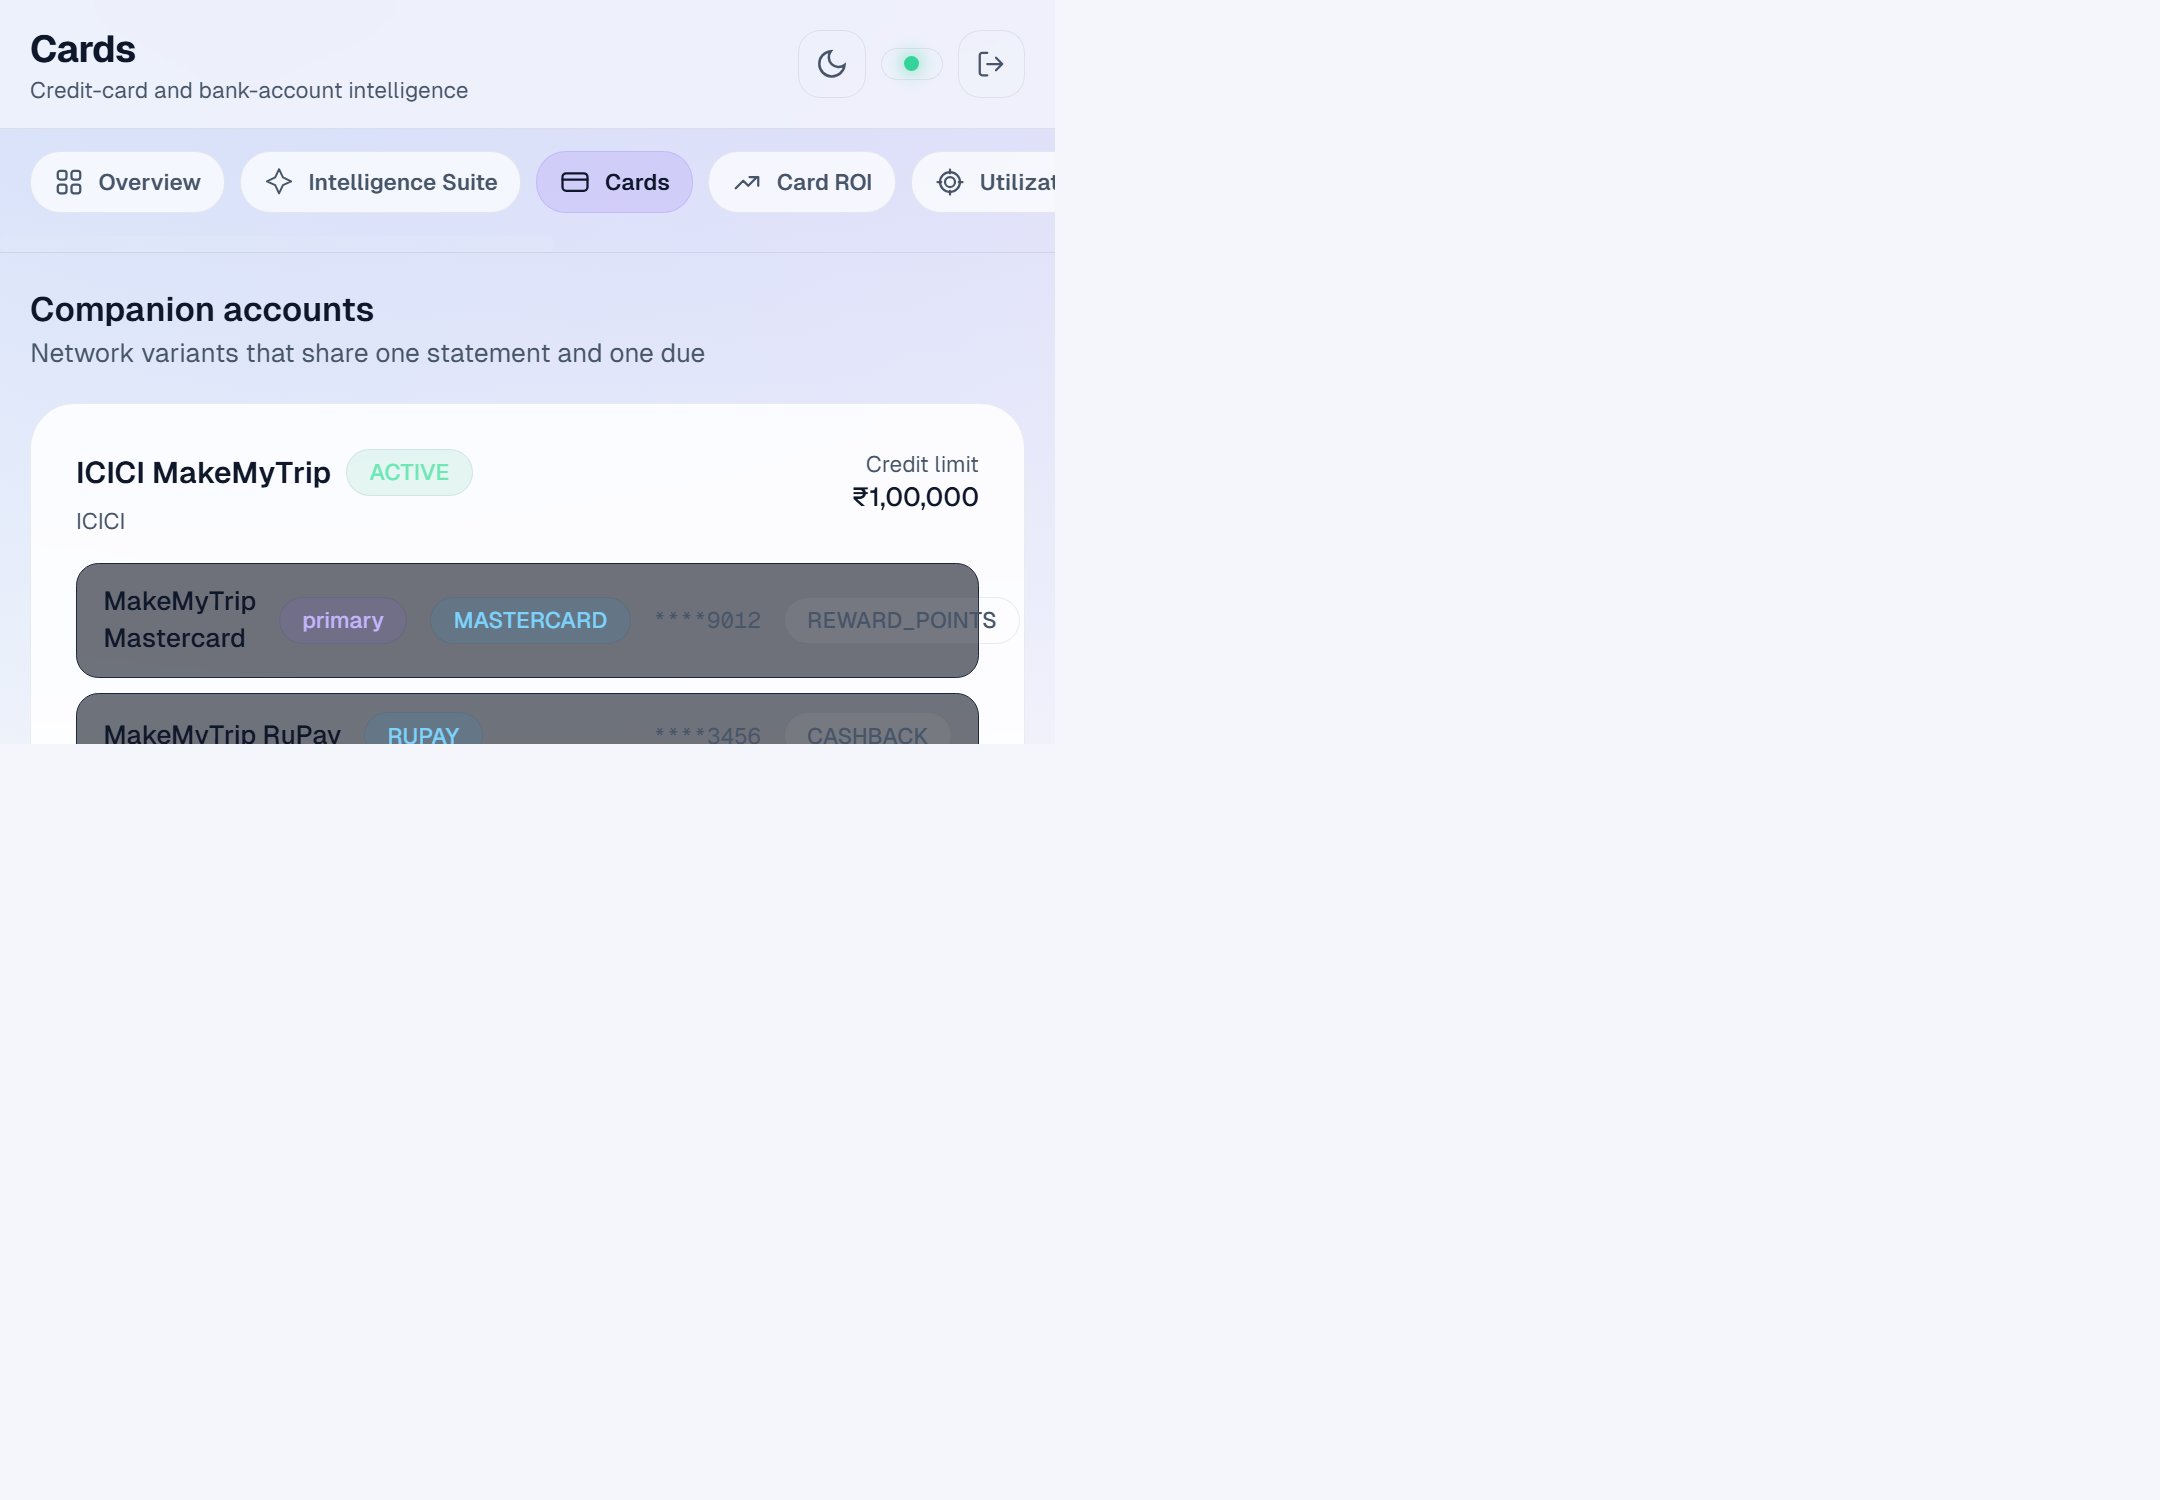
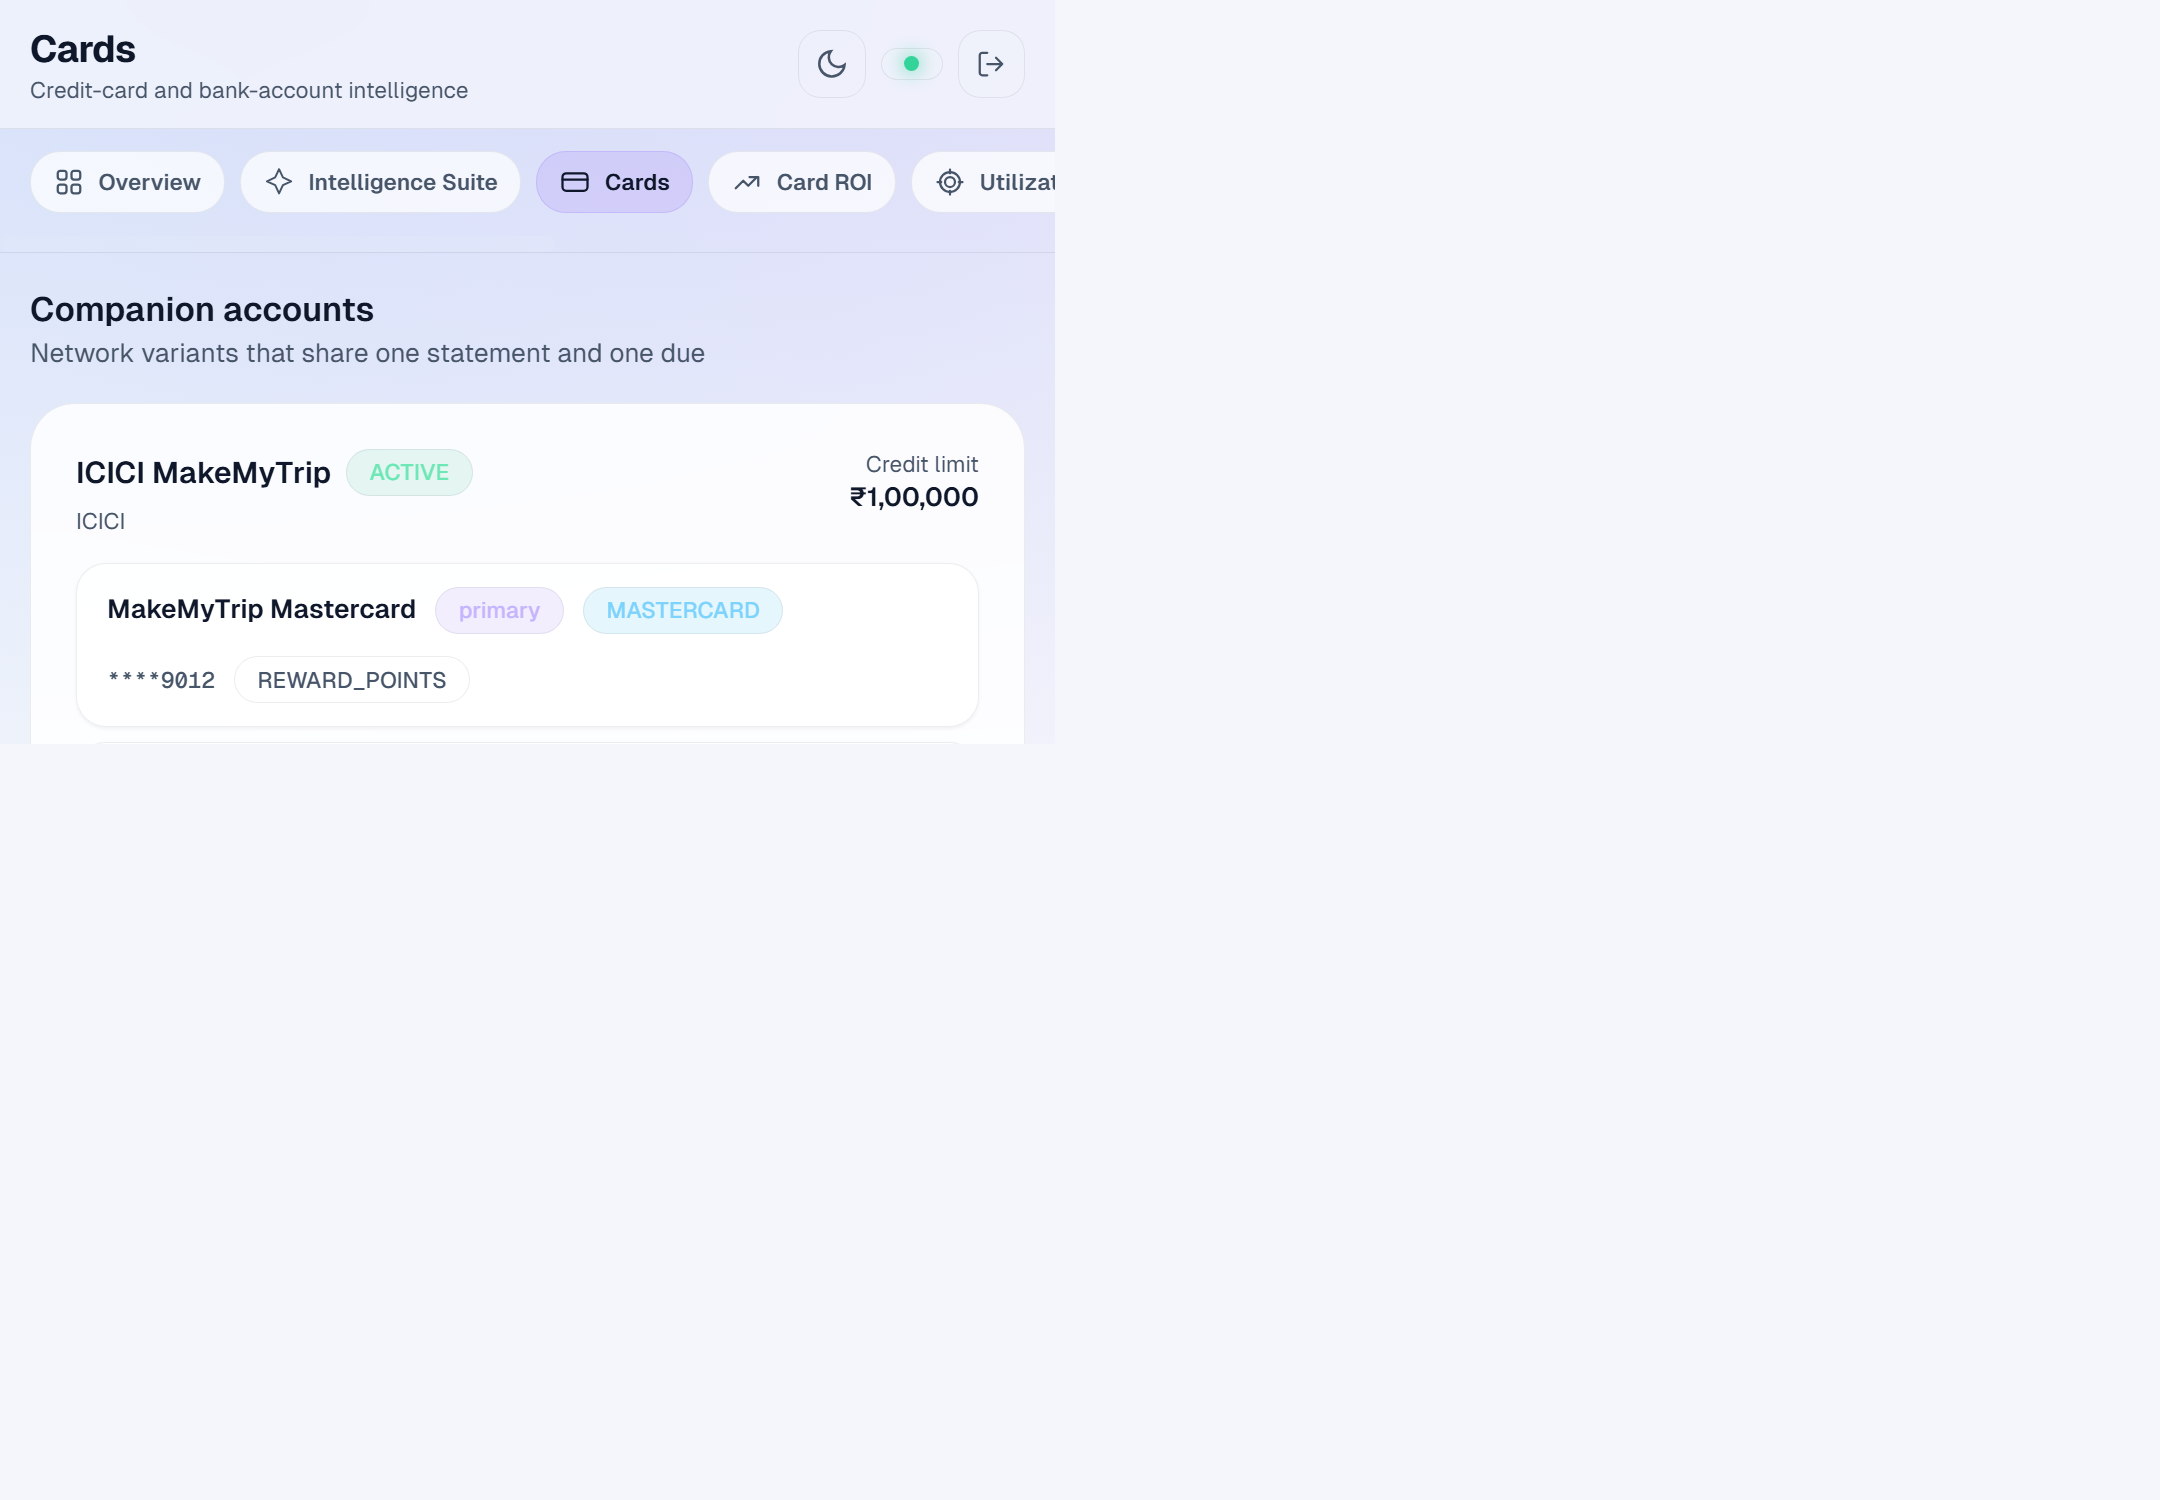
fix(frontend): improve light theme card readability and README screenshot gallery

Changed region(s): [[0.031, 0.368, 0.4653, 0.5213], [0.4032, 0.3067, 0.4343, 0.3373]]

diff --git a/frontend/src/app/dashboard/portfolio/page.tsx b/frontend/src/app/dashboard/portfolio/page.tsx
@@ -15,14 +15,14 @@ import type { Card, CardAccount, Page } from "@/lib/types";
 
 function VariantRow({ card }: { card: Card }) {
   return (
-    <div className="flex items-center justify-between gap-3 rounded-xl border border-line bg-panel2/60 px-3.5 py-2.5">
-      <div className="flex items-center gap-3">
-        <span className="text-sm font-medium text-ink">{card.card_name}</span>
+    <div className="grid gap-3 rounded-2xl border border-white/10 bg-white/[0.04] px-4 py-3 shadow-sm sm:grid-cols-[minmax(0,1fr)_auto] sm:items-center">
+      <div className="flex min-w-0 flex-wrap items-center gap-2.5">
+        <span className="min-w-0 text-sm font-semibold leading-5 text-white">{card.card_name}</span>
         {card.is_primary ? <Badge tone="brand">primary</Badge> : null}
         <NetworkChip network={card.network} />
       </div>
-      <div className="flex items-center gap-3">
-        <span className="font-mono text-xs text-muted">****{card.last4}</span>
+      <div className="flex min-w-0 flex-wrap items-center gap-2.5 sm:justify-end">
+        <span className="font-mono text-xs font-semibold text-slate-400">****{card.last4}</span>
         {card.reward_format ? <Badge tone="muted">{card.reward_format}</Badge> : null}
       </div>
     </div>
@@ -61,14 +61,14 @@ export default function PortfolioPage() {
                 <div className="flex items-start justify-between gap-3">
                   <div>
                     <div className="flex items-center gap-2">
-                      <span className="font-semibold text-ink">{acc.display_name}</span>
+                      <span className="font-semibold text-white">{acc.display_name}</span>
                       <StatusChip status={acc.status} />
                     </div>
-                    <span className="text-xs text-muted">{acc.bank}</span>
+                    <span className="text-xs text-slate-400">{acc.bank}</span>
                   </div>
                   <div className="text-right">
-                    <div className="text-xs text-muted">Credit limit</div>
-                    <div className="text-sm font-medium text-ink">
+                    <div className="text-xs text-slate-400">Credit limit</div>
+                    <div className="text-sm font-semibold text-white">
                       {formatMoney(acc.credit_limit)}
                     </div>
                   </div>
@@ -93,12 +93,12 @@ export default function PortfolioPage() {
             {standalone.map((c) => (
               <div key={c.id} className="card flex flex-col gap-2">
                 <div className="flex items-center justify-between gap-2">
-                  <span className="font-medium text-ink">{c.card_name}</span>
+                  <span className="font-medium text-white">{c.card_name}</span>
                   <StatusChip status={c.status} />
                 </div>
-                <span className="text-xs text-muted">{c.bank}</span>
+                <span className="text-xs text-slate-400">{c.bank}</span>
                 <div className="flex items-center justify-between">
-                  <span className="font-mono text-xs text-muted">****{c.last4}</span>
+                  <span className="font-mono text-xs text-slate-400">****{c.last4}</span>
                   <NetworkChip network={c.network} />
                 </div>
               </div>

diff --git a/README.md b/README.md
@@ -14,20 +14,32 @@ optimizing, and alerting.
 
 ## Product Screens
 
-The screenshots below are generated from the local demo dataset only; no personal Gmail, card, PDF, or
-credential data is included.
+Screenshots are generated from the local demo dataset only; no personal Gmail, card, PDF, or credential
+data is included.
 
-| Dashboard overview | Card portfolio |
-|---|---|
-| ![CardLens dashboard overview](docs/screenshots/01-dashboard-overview.png) | ![CardLens card portfolio](docs/screenshots/02-card-portfolio.png) |
+### Dashboard overview
 
-| Statements | Gmail onboarding |
-|---|---|
-| ![CardLens statements screen](docs/screenshots/03-statements.png) | ![CardLens Gmail onboarding](docs/screenshots/04-gmail-onboarding.png) |
+![CardLens dashboard overview](docs/screenshots/01-dashboard-overview.png)
 
-| Upload statement | Intelligence Suite |
-|---|---|
-| ![CardLens upload statement parser](docs/screenshots/05-upload-statement.png) | ![CardLens Intelligence Suite](docs/screenshots/06-intelligence-suite.png) |
+### Card portfolio
+
+![CardLens card portfolio](docs/screenshots/02-card-portfolio.png)
+
+### Statement intelligence
+
+![CardLens statements screen](docs/screenshots/03-statements.png)
+
+### Gmail onboarding
+
+![CardLens Gmail onboarding](docs/screenshots/04-gmail-onboarding.png)
+
+### Upload statement parser
+
+![CardLens upload statement parser](docs/screenshots/05-upload-statement.png)
+
+### Intelligence Suite
+
+![CardLens Intelligence Suite](docs/screenshots/06-intelligence-suite.png)
 
 ## 2. Architecture
 